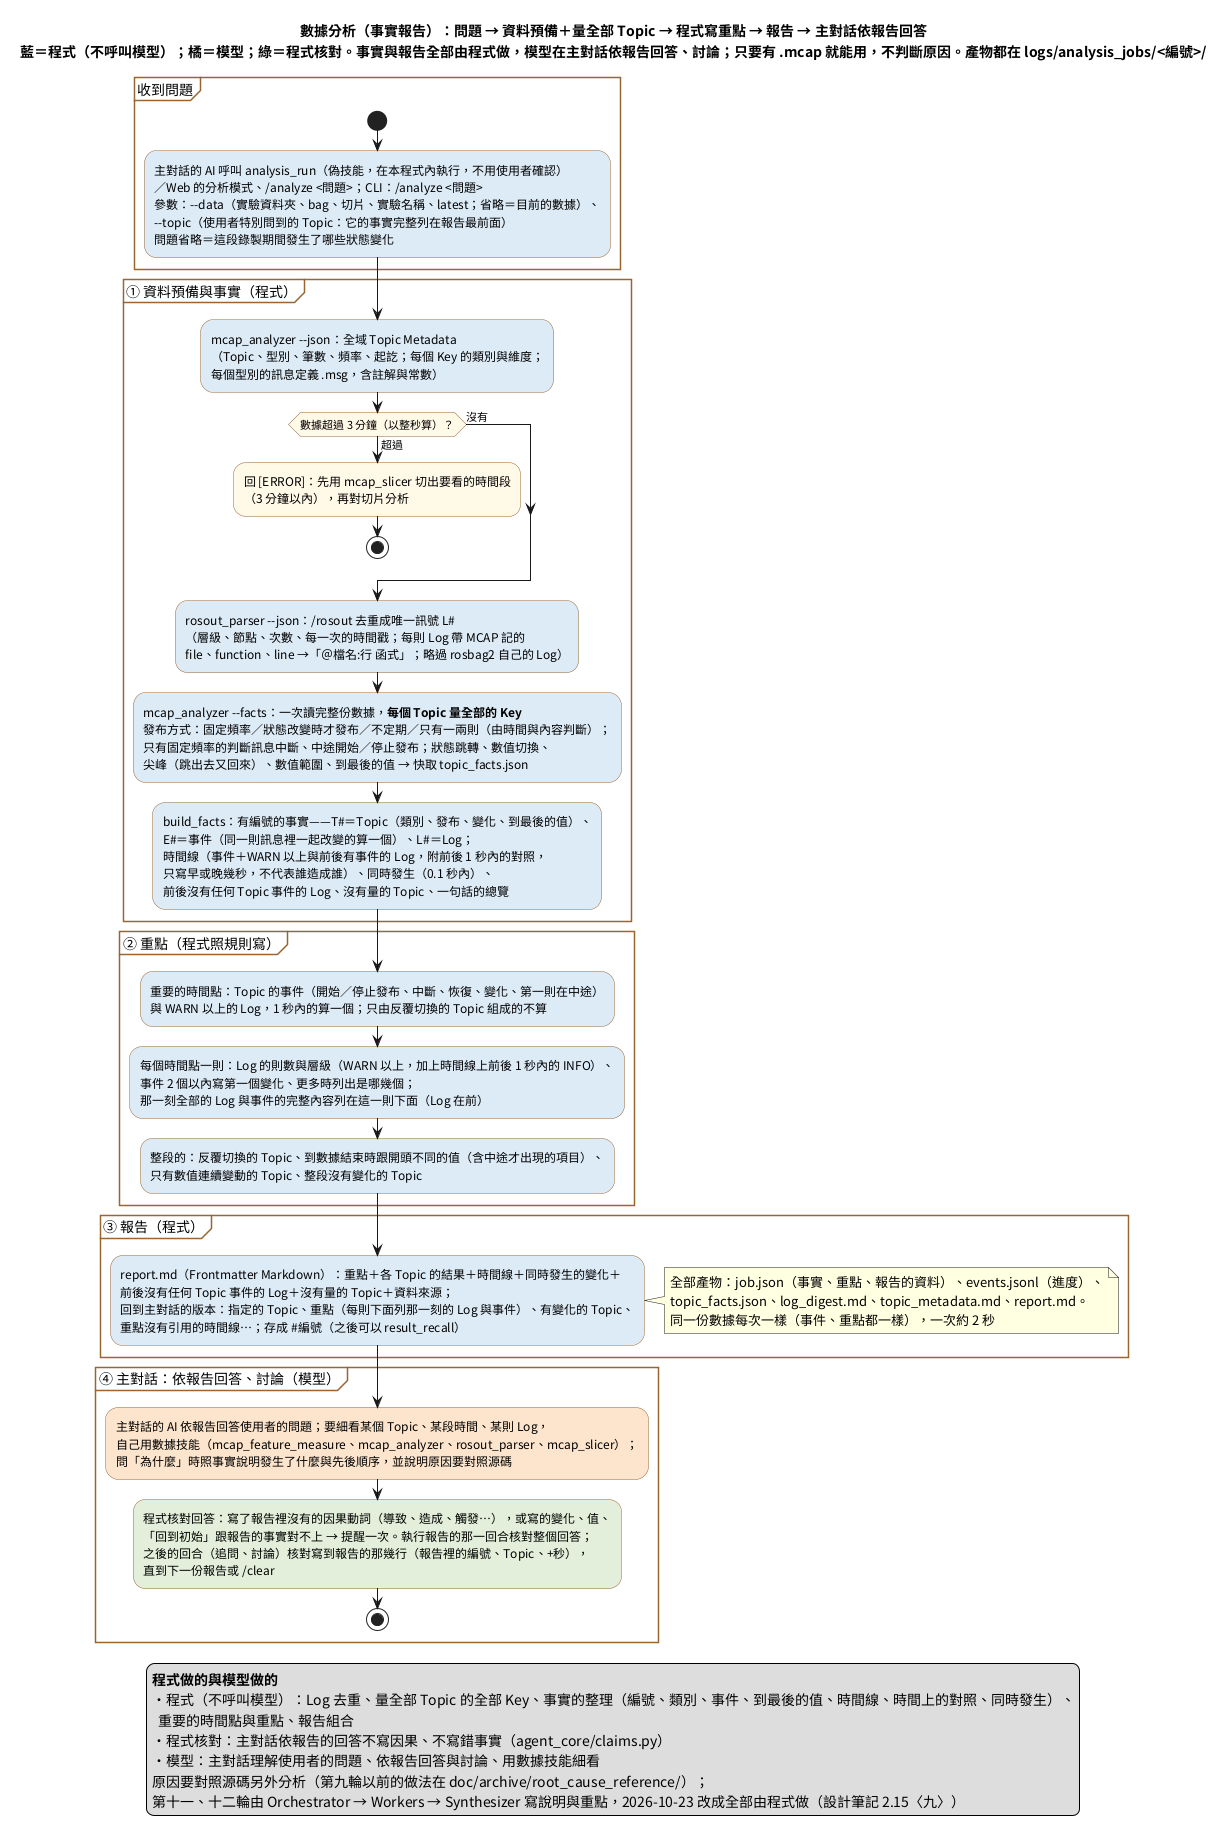
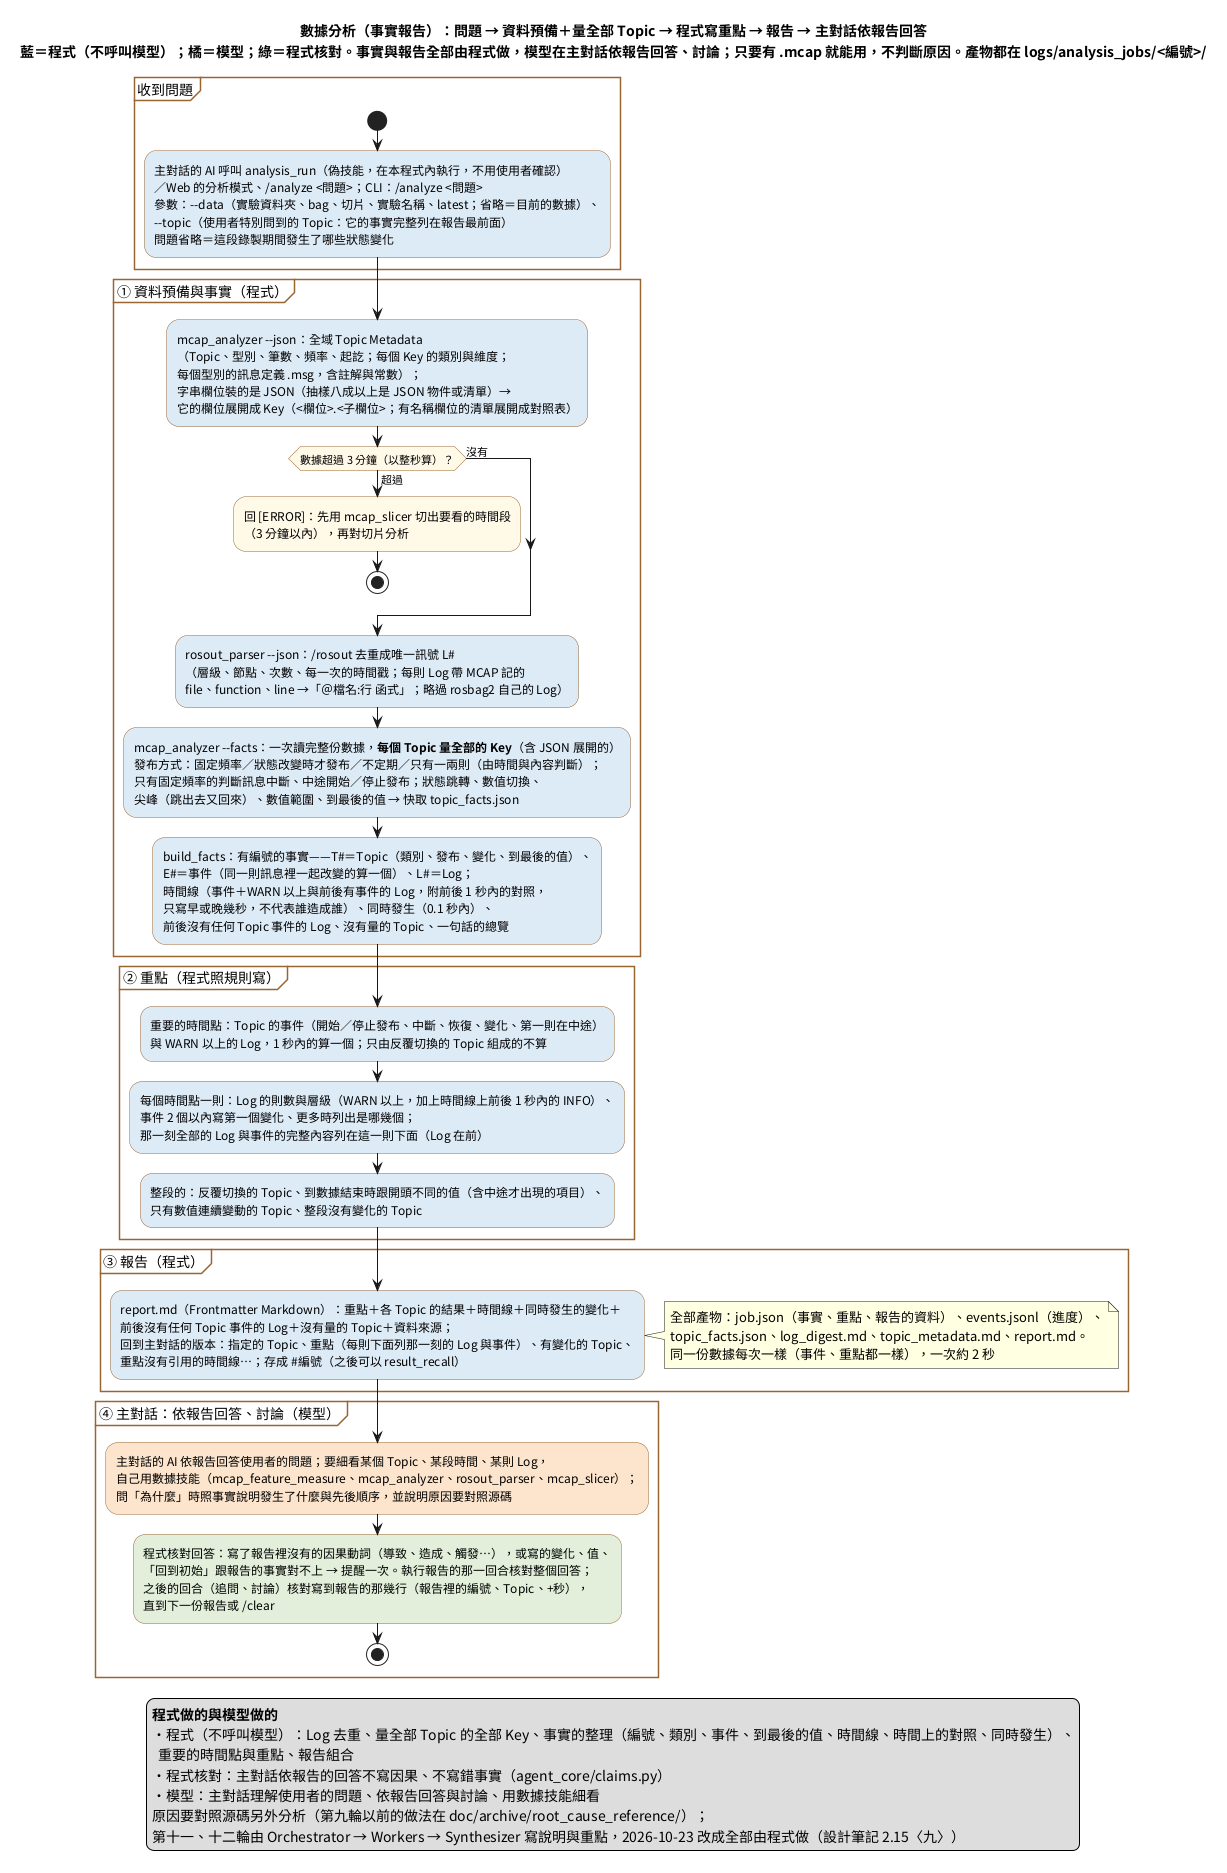
Refactor documentation and diagrams for AI agent harness
- Updated README.md to clarify component relationships and workflow details.
- Enhanced AI agent harness state transition diagrams with additional skills and processes.
- Revised data analysis flow diagrams to include JSON handling and error reporting.
- Removed outdated diagram generation script that relied on external PlantUML server.
- Improved clarity in documentation regarding local rendering of diagrams and data processing.
- Updated task list in the project documentation to reflect ongoing integration efforts and future plans.

diff --git a/doc/待辦清單.md b/doc/待辦清單.md
@@ -1,13 +1,13 @@
 # 待辦清單（已記錄、尚未開始）
 
-## 架構整合（進行中；第 1～3 階段已 commit：e89ace1、8210509、dfa8e10）
+## 架構整合（進行中；第 1～3 階段已 commit：e89ace1、8210509、dfa8e10，第 3 階段的後續 a98db11）
 
 把多步驟的機制整合成「技能／工作流／通用的任務引擎」：數據分析全部由程式做（第 1 階段）、工具回傳的提煉分段做（第 2 階段）、
 工作流（第 3 階段）已經做完（設計筆記 2.15～2.18）。剩下的：
 
 | 階段 | 內容 | 狀態 |
 |---|---|---|
-| 4 | **通用的任務引擎**（Orchestrator 規劃、worker 一步一步做、需要整合時 Synthesizer）；「類型」＝Orchestrator 的 system prompt（`prompts/orchestra/profiles/`），第一個是**維運**（取代 ops_run）；**Plan 模式併入**（變成任務引擎的計畫審核，舊的逐步執行拿掉）。一起做：計畫可以有「工作流」這種步驟（19）、worker 每次模型呼叫存檔（14）、計畫的前提檢查與失敗後重排（15）、說要做卻沒有動作（16）；換掉 ops_run 時一併改：`tools/ops_run.md` 還說「可以重新 ops_plan」、`prompts/ops/planner.md` 的範例用 `file_ops replace` 改 YAML 的一個值（主對話現在用 `file_ops set`） | 未開始 |
+| 4 | **通用的任務引擎**（Orchestrator 規劃、worker 一步一步做、需要整合時 Synthesizer）；「類型」＝Orchestrator 的 system prompt（`prompts/orchestra/profiles/`），第一個是**維運**（取代 ops_run）；**Plan 模式併入**（變成任務引擎的計畫審核，舊的逐步執行拿掉）。一起做：計畫可以有「工作流」這種步驟（19）、worker 每次模型呼叫存檔（14）、計畫的前提檢查與失敗後重排（15）、說要做卻沒有動作（16）；換掉 ops_run 時一併改：`tools/ops_run.md` 還說「可以重新 ops_plan」、`prompts/ops/planner.md` 的範例用 `file_ops replace` 改 YAML 的一個值（主對話現在用 `file_ops set`）；每種 job 都有保留上限（數據分析的 `logs/analysis_jobs/` 現在沒有清理：2026-10-24 這台已經 1583 個、359 MB）。**開始時先做 21**（範例改成中性的寫法、維運基準重跑 3 次），第 4 階段的改動跟這個基準比 | 未開始 |
 | 5 | **調查**、**整理報告**兩種類型＋ Synthesizer 的出處核對（每句附工具回傳的 #編號，程式核對） | 未開始 |
 | 6 | 清理舊路徑（流程技能 `type: Procedure` 的讀取程式、舊的 ops_run／Plan 執行路徑）、文件、流程圖；模型會讀的文字裡的小地方：`tools/analysis_run.md` 還列已拿掉的選項、SKILLS.md 的 mcap_slicer 那一行沒寫 `--window`（AGENT.md 與規格有寫） | 未開始 |
 
@@ -51,5 +51,5 @@
 | 18 | **使用者提到手冊、規定時先讀那份文件再做**（「照維運手冊的規定改設定」→ 先找、讀 docs/ops_manual.md，照裡面的規定做） | ho_fs_backup_edit 從 v5 起沒過過（v5 0/3、第 2 階段 0/4、第 3 階段有／沒有工作流各 0/2）：模型沒有照手冊先備份——跟工作流無關，AGENT.md 的做法（「有維運手冊…就先複製一份」）與 config_edit 的說明（「照維運手冊時給 backup=.bak」）都寫了也一樣。這兩句其實是在替使用者的手冊假設內容，做了「先讀手冊」之後應該一起拿掉，不再往提示裡加這種句子 | 一般的行為：主對話或第 4 階段任務引擎的規劃把「讀引用的文件」排成第一步；ho_fs_backup_edit、ho_cx_backup_edit_dispatch 的通過率 |
 | 19 | **複雜任務裡用工作流當一步**（第 4 階段）：有對應工作流的複雜情境，主對話兩輪都選 ops_run（cx_fin_and_note、cx_restart_verify、cx_reassign…），ops_run 的計畫也從不用 workflow_run（第 3 階段先把它排除在計畫外） | 都過了，但每次重新規劃、模型呼叫多；工作流的那一段（例：卡住的處理）由程式推進會更快、更穩（選用工作流的情境中位數 10 對 21 秒） | 任務引擎的計畫可以有「工作流」這種步驟（同一個執行器、確認畫面列出它的步驟）；complex 類的時間與模型呼叫 |
 | 20 | **`workpackage_status --until-done` 用在卡住的工作包上會等滿 300 秒** | 2026-10-23 沒有工作流的對照組 ho_hs_fin_tb1：使用者說「幫我處理到它跑完」，第一步就 `--until-done`，等 300 秒才去查交握（322 秒）；有工作流時是 25 秒 | 不改秒數：觀察中程式看得出「機器人已經到站待命、工作項一直是 DISPATCHED、整段沒有變化」時提早結束、說明可能卡住並建議 rmf_handshake status；ho_hs_fin_tb1、hs_lost_fin_fix 的時間 |
-| 21 | **技能說明與規劃 prompt 的範例不要跟評測情境一樣**（2026-10-24 查 fs_edit_param 時看到）：`tools/file_ops.md` 的 replace 範例、`tools/view_file.md`、`prompts/ops/planner.md` 用的正是這個情境的檔案與數值（`configs/nav/nav_params.yaml`、`max_vel_x` 0.5 → 0.3）——第 2 階段這題 4/4 有一部分是照抄範例 | 範例跟評測一樣，分數量的是「會不會抄」而不是會不會做；不改的話評測會高估 | 範例改成中性的寫法（`<檔案>`、`<名稱>`，或評測世界裡沒有的檔案）、維運基準重跑（分數可能會掉，那才是真實的） |
+| 21 | **技能說明與規劃 prompt 的範例不要跟評測情境一樣**（2026-10-24 查 fs_edit_param 時看到）：`tools/file_ops.md` 的 replace 範例、`tools/view_file.md`、`prompts/ops/planner.md` 用的正是這個情境的檔案與數值（`configs/nav/nav_params.yaml`、`max_vel_x` 0.5 → 0.3）——第 2 階段這題 4/4 有一部分是照抄範例 | 範例跟評測一樣，分數量的是「會不會抄」而不是會不會做；不改的話評測會高估 | 範例改成中性的寫法（`<檔案>`、`<名稱>`，或評測世界裡沒有的檔案）、維運基準重跑（分數可能會掉，那才是真實的）。2026-10-24 使用者：在後續的測試裡一起改——排在第 4 階段一開始 |
 | 22 | **提煉沒有照問題挑欄位**（2026-10-24 ros_moving）：問「往哪裡走」，原文裡有 `target_id: a7`、`current_edge: home->a7`，提煉只寫了座標往哪個方向增加，主對話就答不出要去哪一站（第 3 階段三次完整跑 1/3；提煉的程式這階段沒改） | 答案不在數值變化裡、要看問題的意思挑欄位時，worker 會漏 | `evals/extract/` 加了 robot_heading 這個情境（同一份真實輸出）；改提煉的 prompt 或整合（第 5 階段的 Synthesizer）時看它 |

diff --git a/doc/README.md b/doc/README.md
@@ -20,12 +20,12 @@
 
 | 圖 | 來源 | 內容 |
 |---|---|---|
-| ![架構](images/AI_agent_harness的說明.png) | `diagrams/AI_agent_harness的說明.puml` | 元件與資料流；`vision/`（框選／上傳 → 結構化提取 → `[vision result]`）與使用者介面、SkillAgent、技能與工作流、一次性 session（提煉、工作流的判斷點）、存檔的關係 |
-| ![一回合](images/AI_agent_harness的狀態轉移.png) | `diagrams/AI_agent_harness的狀態轉移.puml` | 一回合的狀態機；`/analyze`、`/workflow` 直接指定；附圖時的視覺提取（1b），以及附圖分析在 prompt、壓縮、下一句話裡的位置 |
-| ![工具回傳管線](images/AI_agent_harness的工具回傳管線.png) | `diagrams/AI_agent_harness的工具回傳管線.puml` | 原文存檔 → 提煉（程式切段 → 每段一個 worker → 整合，程式核對行號）→ 檢索清單 → result_recall；中段是附圖的影像分析（提取 → 存成 #編號 → 〔附圖分析〕進清單 → 併進訊息），同一套 recall |
-| ![數據分析的流程](images/數據診斷的流程.png) | `diagrams/數據診斷的流程.puml` | 數據分析（事實報告）的完整流程（活動圖）：收到問題 → 資料預備與事實（超過 3 分鐘先切；程式量全部 Topic 的全部 Key、整理成有編號的事實）→ 重點（程式照規則寫：每個重要的時間點一則）→ 報告 → 主對話依報告回答與程式的核對（之後的回合也核對）；藍＝程式、橘＝模型、綠＝程式核對，底部是程式做的與模型做的；第九輪的流程圖在 `archive/root_cause_reference/doc/` |
+| ![架構](images/AI_agent_harness的說明.png) | `diagrams/AI_agent_harness的說明.puml` | 元件與資料流；`vision/`（框選／上傳 → 結構化提取 → `[vision result]`）與使用者介面、SkillAgent、技能與工作流、偽技能（result_recall、workflow_run、analysis_run、ops_plan／ops_run）、一次性 session（提煉、工作流的判斷點、ops 的規劃與 worker）、`logs/` 底下各種存檔、確認關卡的範圍 |
+| ![一回合](images/AI_agent_harness的狀態轉移.png) | `diagrams/AI_agent_harness的狀態轉移.puml` | 一回合的狀態機；`/analyze`、`/workflow` 直接指定；確認關卡擋哪些；Dispatch 的偽技能；附圖時的視覺提取（1b），以及附圖分析在 prompt、壓縮、下一句話裡的位置 |
+| ![工具回傳管線](images/AI_agent_harness的工具回傳管線.png) | `diagrams/AI_agent_harness的工具回傳管線.puml` | 原文存檔 → 規格文件、提煉過的、程式整理好的報告（數據分析、工作流）直接給原文 → 太長的提煉（程式切段 → 每段一個 worker → 整合，程式核對行號）→ 檢索清單 → result_recall；退路（`/summarize off`、提煉沒成功、重點不比原文短）；中段是附圖的影像分析（提取 → 存成 #編號 → 〔附圖分析〕進清單 → 併進訊息），同一套 recall |
+| ![數據分析的流程](images/數據診斷的流程.png) | `diagrams/數據診斷的流程.puml` | 數據分析（事實報告）的完整流程（活動圖）：收到問題 → 資料預備與事實（超過 3 分鐘先切；字串裡的 JSON 展開成 Key；程式量全部 Topic 的全部 Key、整理成有編號的事實）→ 重點（程式照規則寫：每個重要的時間點一則）→ 報告 → 主對話依報告回答與程式的核對（之後的回合也核對）；藍＝程式、橘＝模型、綠＝程式核對，底部是程式做的與模型做的；第九輪的流程圖在 `archive/root_cause_reference/doc/` |
 
-改完 `.puml` 後重新產生 PNG。建議用本機離線渲染（不把圖的內容送到外部服務）。`~/tools/plantuml/` 放了 Temurin JRE 21 與
+改完 `.puml` 後重新產生 PNG，一律用本機離線渲染（不要用線上的 PlantUML 伺服器：圖的內容會離開這台機器）。`~/tools/plantuml/` 放了 Temurin JRE 21 與
 plantuml.jar（1.2026.8，從 Maven Central 下載）；這台機器沒有 Microsoft JhengHei，字型換成系統的 Noto Sans CJK TC 再渲染
 （`.puml` 本身不改，照舊寫 JhengHei）：
 
@@ -47,5 +47,3 @@ FONTCONFIG_FILE=$PH/fontconfig/fonts.conf GRAPHVIZ_DOT=/usr/bin/dot \
 ```
 
 寫 `.puml` 時注意：字型沒有 emoji（📊 會變成方框，請用文字）、Noto Sans CJK 也沒有 ✗；同一行有兩個 `--`（例如 `--data --topic`）會被當成刪除線，要寫成 `~--`。
-
-`diagrams/流程圖產生器.py` 會把 `.puml` 的內容送到 PlantUML 官方伺服器（plantuml.com）渲染，圖的內容會離開這台機器——不要用，用上面的本機渲染。

diff --git a/doc/架構說明.md b/doc/架構說明.md
@@ -262,7 +262,7 @@ web_console.py    → web_app/server.py 的 main()                   （python3 
 | `skills_system/` | 技能：`SKILLS.md`（索引，常駐 system prompt）、`tools/<name>.md`（規格，按需載入）、`scripts/`（腳本與共用模組）、`workflows/<名稱>.md`（工作流，第 14 節） |
 | `vision/` | 視覺模態：擷取、影像處理、推論、結構化提取、Web 的框選（`web/`）；`sniper.py` 是獨立的框選小工具（`python3 -m vision.sniper`） |
 | `evals/` | 評測（第 12 節）：`chat/`、`skills/`、`analysis/`、`datagen/`、`ops/`、`workflow/`、`extract/`；`phase_check.py`（每個階段結束時全跑）與 `baselines/`（基準，進版控）；結果寫到 `evals/results/`（.gitignore） |
-| `doc/` | 文件；`diagrams/`（.puml 與產生器）、`images/`（產生的圖）、`archive/root_cause_reference/`（第一～九輪的根因版本，只供閱讀） |
+| `doc/` | 文件；`diagrams/`（圖的 .puml）、`images/`（產生的 PNG）、`archive/root_cause_reference/`（第一～九輪的根因版本，只供閱讀） |
 | `test_data/`、`logs/` | 只在本機（.gitignore）：實機錄製與正確答案、回歸工具；執行時產生的紀錄 |
 
 ---
@@ -458,7 +458,7 @@ Ollama 只重用跟上一次請求相同的開頭，從第一個不同的 token 
 | 改回覆協議 | `schemas.py` 的 `AGENT_REPLY_SCHEMA`、`protocol.py` 的 `parse_agent_reply`、`AGENT.md`〈執行協議〉第 3 條 |
 | 改附圖的視覺提取（提取順序、使用者說明的用法、輸出格式） | `vision/extraction.py`（`EXTRACTION_SYSTEM_PROMPT`、`extraction_schema`、`render_extraction`）；交給 main session 的包裝與用法說明在 `web_app/flows.py` 的 `_run_vision_subsession` |
 | 改 Web 畫面 | `web_app/static/index.html`（HTML／CSS／JS 都在這一個檔案）；後端路由在 `web_app/server.py` |
-| 重畫文件的圖 | 改 `doc/diagrams/*.puml`，用本機的 PlantUML 重新產生 PNG（指令見〈[文件導覽](README.md)〉；不要用會把圖送到線上伺服器的 `流程圖產生器.py`） |
+| 重畫文件的圖 | 改 `doc/diagrams/*.puml`，用本機的 PlantUML 重新產生 PNG（指令見〈[文件導覽](README.md)〉；不要用線上的 PlantUML 伺服器，圖的內容會離開這台機器） |
 
 改完先跑離線的 `python3 evals/phase_check.py`（約 2 分鐘）；行為有沒有變好，跑第 12 節的真模型評測（假 `ollama.chat` 的驗證做法見〈設計筆記與已知限制〉5.4）。
 

diff --git a/CLAUDE.md b/CLAUDE.md
@@ -60,6 +60,6 @@
 - 改了程式就同步改文件：`README.md`（入口）、`doc/架構說明.md`（模組、常數、流程）、`doc/設計筆記與已知限制.md`（為什麼、實測數字、限制）、
   `doc/待辦清單.md`（記下來還沒做的）、`evals/README.md`（測試怎麼跑）。架構說明與架構圖的更新先問使用者（見上面）。
 - 在長文件裡插入段落前，確認位置不在程式碼區塊裡；改完檢查 ` ``` ` 有成對（曾經整節被插進範例的程式碼區塊裡）。
-- 架構圖用本機的 PlantUML（`~/tools/plantuml/`）產生，做法見 `doc/README.md`〈圖〉；不要用 `doc/diagrams/流程圖產生器.py`
-  （它把圖的內容送到線上伺服器）。產生後打開 PNG 看一次中文與版面。
+- 架構圖用本機的 PlantUML（`~/tools/plantuml/`）產生，做法見 `doc/README.md`〈圖〉；不要用線上的 PlantUML 伺服器（圖的內容會離開
+  這台機器）。產生後打開 PNG 看一次中文與版面。
 - 中文檔名在 git 輸出裡會變成跳脫碼：`git -c core.quotepath=off status`。
